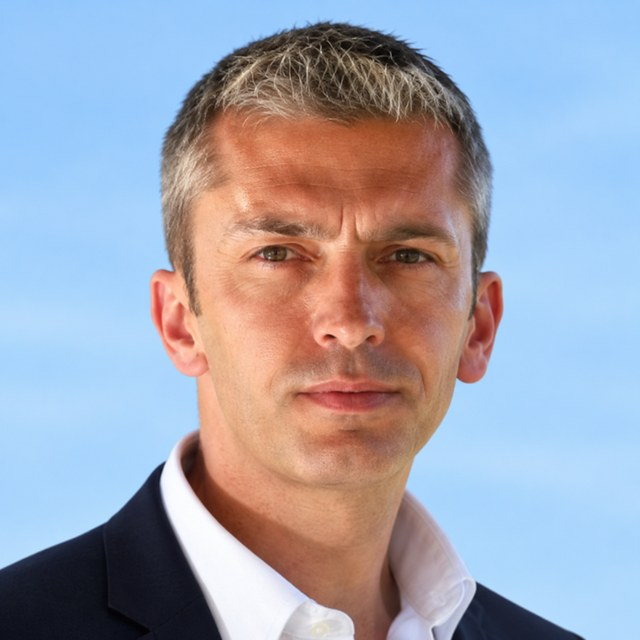
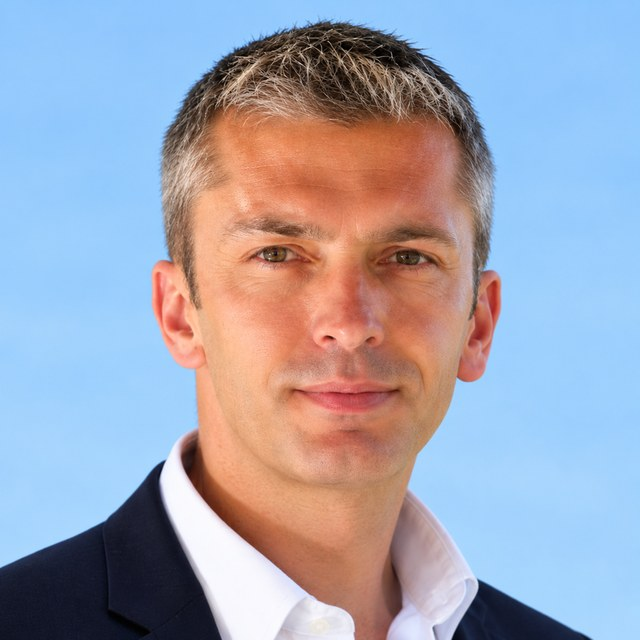
Use the smiling headshot (image3) and move the green dot into the Status label

diff --git a/src/styles.css b/src/styles.css
@@ -110,7 +110,7 @@ section { scroll-margin-top: calc(var(--nav-h) + 1rem); }
 .tb-row dt, .tb-row dd { margin: 0; padding: 0.55rem 0.75rem; font-size: 0.875rem; }
 .tb-row dt { border-right: 1px solid var(--line); }
 .status { display: flex; align-items: center; gap: 0.5rem; }
-.status::before {
+.status::after {
   content: ""; flex: none; width: 0.55rem; height: 0.55rem; border-radius: 50%; background: var(--ok);
   animation: pulse 2.2s ease-out infinite;
 }
@@ -118,7 +118,7 @@ section { scroll-margin-top: calc(var(--nav-h) + 1rem); }
   0% { box-shadow: 0 0 0 0 color-mix(in srgb, var(--ok) 55%, transparent); }
   80%, 100% { box-shadow: 0 0 0 0.5rem transparent; }
 }
-@media (prefers-reduced-motion: reduce) { .status::before { animation: none; } }
+@media (prefers-reduced-motion: reduce) { .status::after { animation: none; } }
 
 /* key figures */
 .figures { display: grid; grid-template-columns: repeat(4, minmax(0, 1fr)); border-block: 1px solid var(--fg); }

diff --git a/src/components/Hero.jsx b/src/components/Hero.jsx
@@ -37,8 +37,8 @@ export function Hero() {
         <dl>
           {hero.facts.map((f) => (
             <div key={f.label} className="tb-row">
-              <dt className="label">{f.label}</dt>
-              <dd className={f.status ? 'status' : undefined}>{f.value}</dd>
+              <dt className={f.status ? 'label status' : 'label'}>{f.label}</dt>
+              <dd>{f.value}</dd>
             </div>
           ))}
         </dl>
